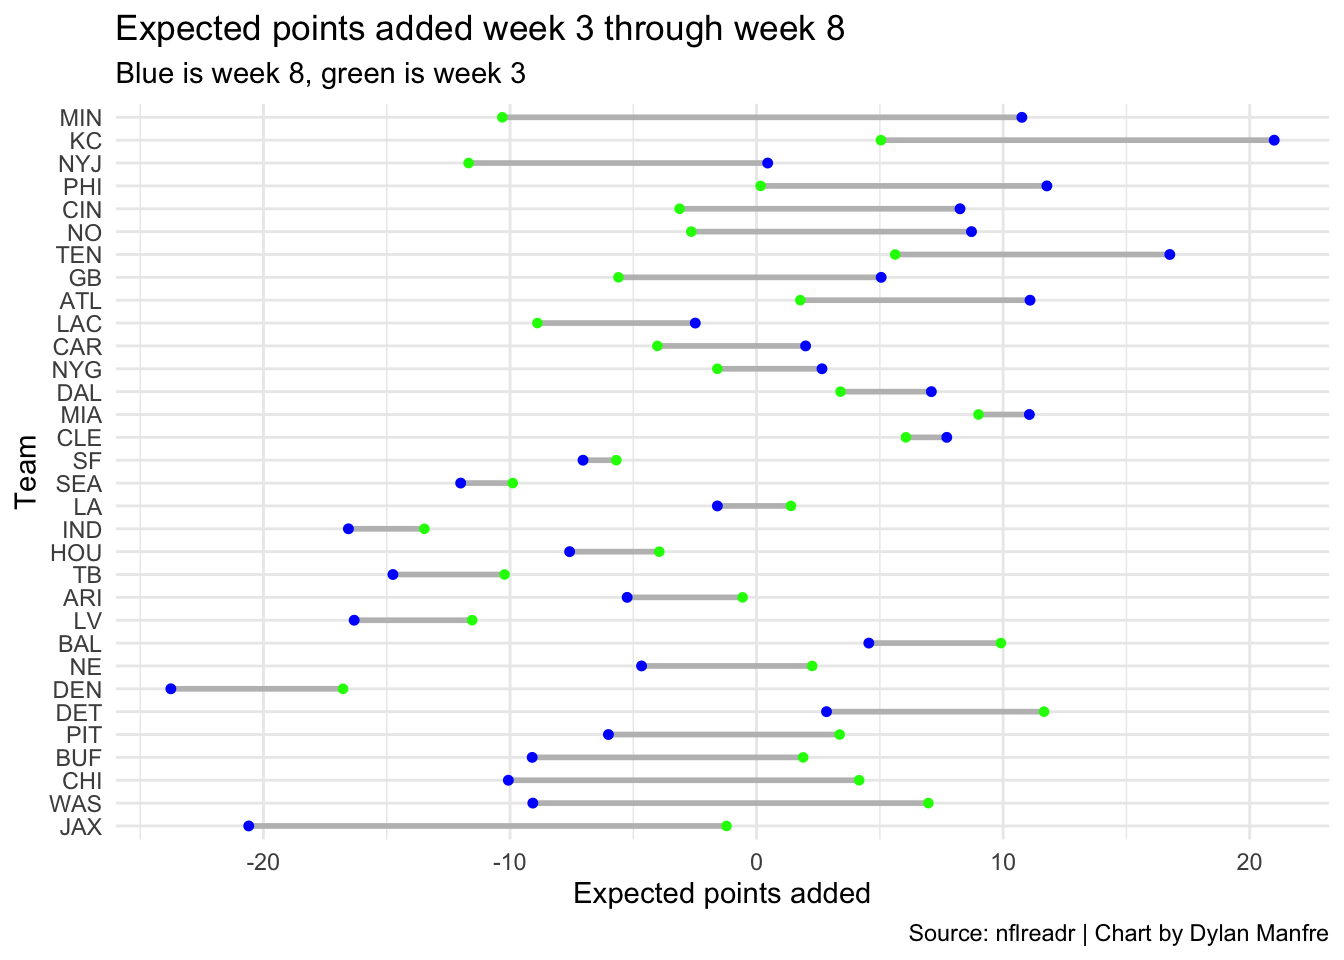
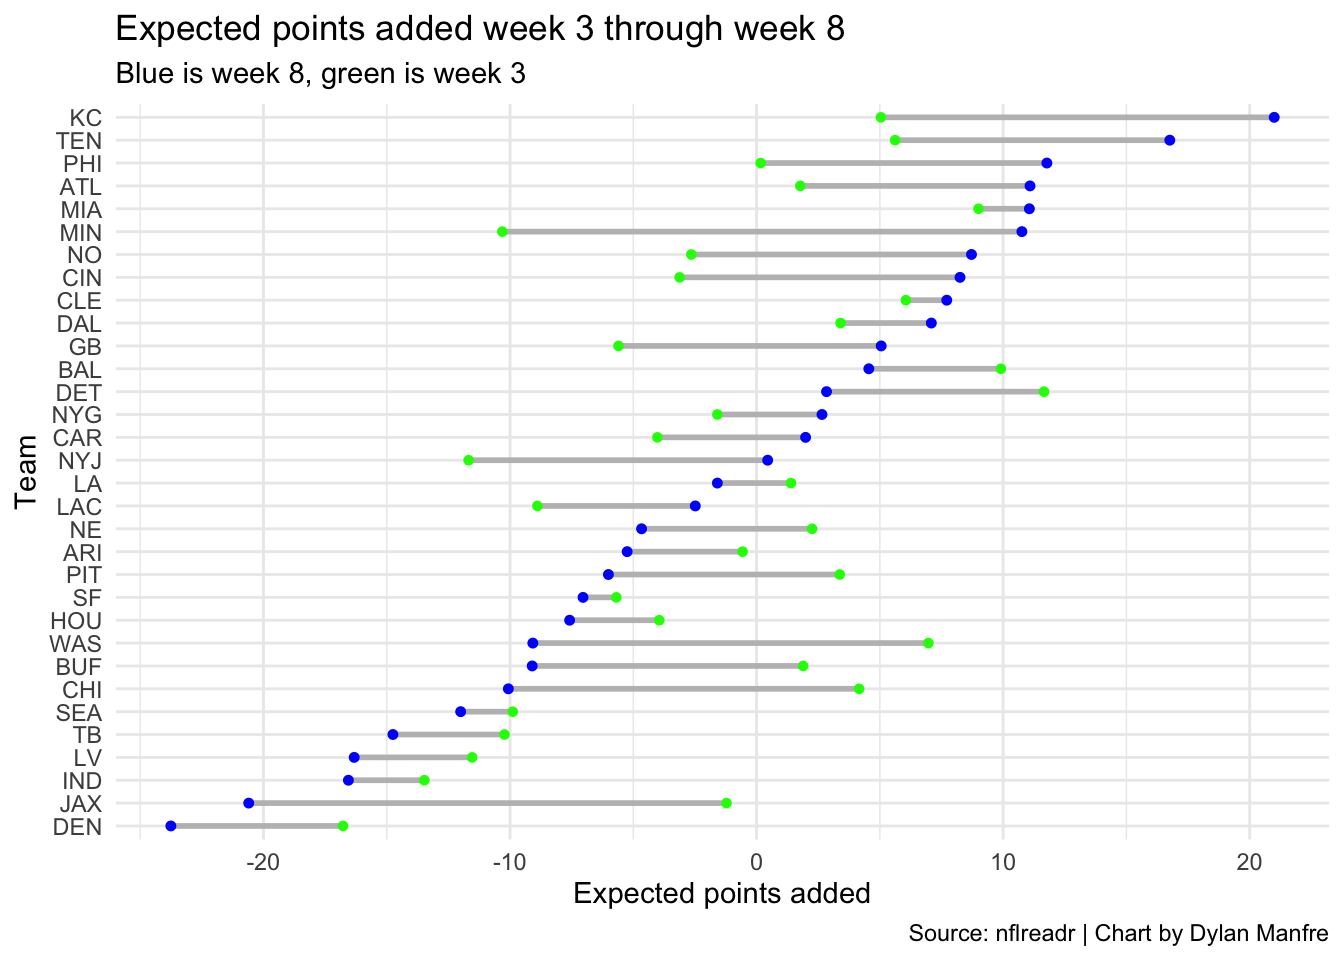
updates to nfl redzone

diff --git a/docs/sportsblog/posts/nfl-redzone/nflredzone.html b/docs/sportsblog/posts/nfl-redzone/nflredzone.html
@@ -265,8 +265,9 @@ pre > code.sourceCode > span > a:first-child::before { text-decoration: underlin
 <span id="cb8-20"><a href="#cb8-20" aria-hidden="true" tabindex="-1"></a>  <span class="fu">arrange</span>(<span class="fu">desc</span>(diff))</span></code><button title="Copy to Clipboard" class="code-copy-button"><i class="bi"></i></button></pre></div>
 </details>
 </div>
-<p>I created a difference column to show how much a team has improved or regressed from weeks 3 to 8 of the season and arranged it by the teams that have the largest differential. The Jets being as high as they are surprised me. It shows they improved a lot in the red zone even though they weren’t a good team overall.</p>
-<p>Kansas City being No.&nbsp;2 makes sense to me because Mahomes is always finding ways to improve and find new ways to maneuver his offense through the red zone and find unique ways to get the ball into the end zone. Whether it’s a shovel pass, option, run or sneak, he makes the most of those opportunities.</p>
+<p>I created a difference column to show how much a team has improved or regressed from weeks 3 to 8 of the season and arranged at first by differential. The Jets being as high as they are surprised me when I arranged by differential. It showed they improved a lot in the red zone even though they weren’t a good team overall.</p>
+<p>When I order by w8_epa, Kansas City being No.&nbsp;1 makes sense. Mahomes is always finding ways to improve and find new ways to maneuver his offense through the red zone and find unique ways to get the ball into the end zone. Whether it’s a shovel pass, option, run or sneak, he makes the most of those opportunities.</p>
+<p>Minnesota is a team that made a massive improvement over the course of the season.</p>
 <p>Denver regressing doesn’t surprise me because last season, Russell Wilson faced a plethora of issues and was an eyesore of the Broncos offense.</p>
 <div class="cell">
 <details>
@@ -275,7 +276,7 @@ pre > code.sourceCode > span > a:first-child::before { text-decoration: underlin
 <span id="cb9-2"><a href="#cb9-2" aria-hidden="true" tabindex="-1"></a><span class="fu">ggplot</span>() <span class="sc">+</span> </span>
 <span id="cb9-3"><a href="#cb9-3" aria-hidden="true" tabindex="-1"></a>  <span class="fu">geom_dumbbell</span>(</span>
 <span id="cb9-4"><a href="#cb9-4" aria-hidden="true" tabindex="-1"></a>    <span class="at">data=</span>joined_plays, </span>
-<span id="cb9-5"><a href="#cb9-5" aria-hidden="true" tabindex="-1"></a>    <span class="fu">aes</span>(<span class="at">y =</span> <span class="fu">reorder</span>(posteam, diff), <span class="at">x=</span>w3_epa, <span class="at">xend=</span>w8_epa),</span>
+<span id="cb9-5"><a href="#cb9-5" aria-hidden="true" tabindex="-1"></a>    <span class="fu">aes</span>(<span class="at">y =</span> <span class="fu">reorder</span>(posteam, w8_epa), <span class="at">x=</span>w3_epa, <span class="at">xend=</span>w8_epa),</span>
 <span id="cb9-6"><a href="#cb9-6" aria-hidden="true" tabindex="-1"></a>    <span class="at">size =</span> <span class="dv">1</span>,</span>
 <span id="cb9-7"><a href="#cb9-7" aria-hidden="true" tabindex="-1"></a>    <span class="at">color =</span> <span class="st">"grey"</span>,</span>
 <span id="cb9-8"><a href="#cb9-8" aria-hidden="true" tabindex="-1"></a>    <span class="at">colour_x =</span> <span class="st">"green"</span>,</span>

diff --git a/docs/sportsblog/index.html b/docs/sportsblog/index.html
@@ -170,7 +170,7 @@ ul.task-list li input[type="checkbox"] {
 
 <div class="quarto-listing quarto-listing-container-default" id="listing-listing">
 <div class="list quarto-listing-default">
-<div class="quarto-post image-right" data-index="0" data-listing-date-sort="1698724800000" data-listing-file-modified-sort="1698797878915" data-listing-date-modified-sort="NaN" data-listing-reading-time-sort="3">
+<div class="quarto-post image-right" data-index="0" data-listing-date-sort="1698724800000" data-listing-file-modified-sort="1698801322166" data-listing-date-modified-sort="NaN" data-listing-reading-time-sort="3">
 <div class="thumbnail">
 <p><a href="./posts/nfl-redzone/nflredzone.html"> <p class="card-img-top"><img src="posts/nfl-redzone/nflredzone_files/figure-html/unnamed-chunk-6-1.png"  class="thumbnail-image card-img"/></p> </a></p>
 </div>
@@ -183,7 +183,7 @@ NFL Redzone reverse engineering
 
 </div>
 <div class="listing-description">
-I created a difference column to show how much a team has improved or regressed from weeks 3 to 8 of the season and arranged it by the…
+I created a difference column to show how much a team has improved or regressed from weeks 3 to 8 of the season and arranged at first by…
 </div>
 </a>
 </div>
